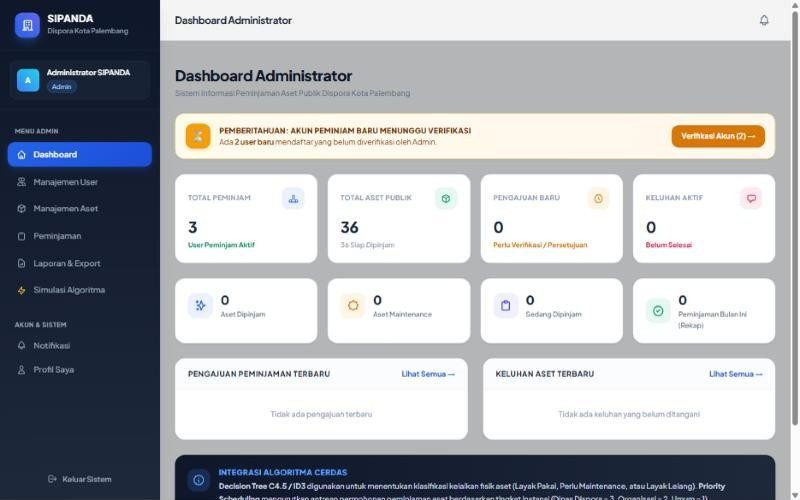
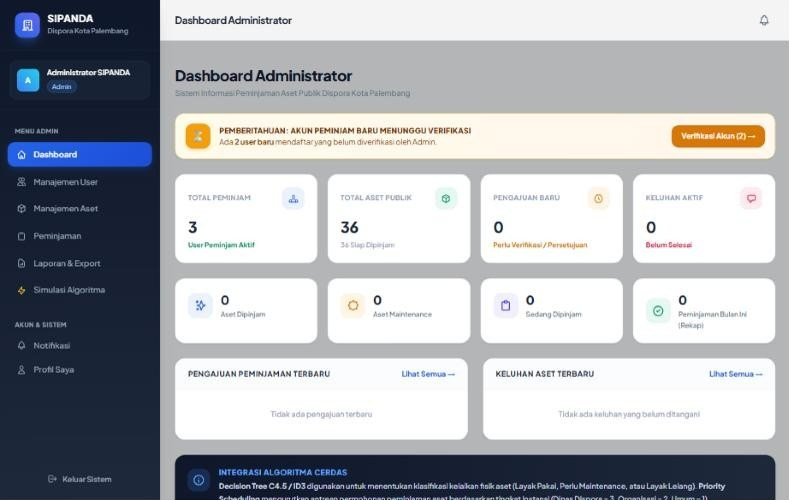
Gambar berwarna, bingkai HP realistis, level skill bahasa Inggris
- Hapus filter hitam-putih di galeri, mockup, dan sertifikat
- Bingkai HP baru: bezel + rangka, status bar ikut warna aplikasi, dynamic island
- Potong scrollbar yang ikut terfoto di screenshot Crypto, StokKu, SIPANDA
- Label level skill: Advanced / Upper Intermediate / Intermediate / Basic

diff --git a/index.html b/index.html
@@ -64,8 +64,8 @@ img{display:block;max-width:100%}
 .gallery{display:grid;grid-template-columns:repeat(3,1fr);gap:28px 22px;margin-top:40px;position:relative;z-index:2}
 .tile{display:block}
 .tile .frame{border:3px solid var(--line);border-radius:10px;overflow:hidden;aspect-ratio:16/10;background:#111}
-.tile img{width:100%;height:100%;object-fit:cover;object-position:top;filter:grayscale(1) contrast(1.1);transition:filter .4s,transform .6s}
-.tile:hover img{filter:none;transform:scale(1.04)}
+.tile img{width:100%;height:100%;object-fit:cover;object-position:top;transition:transform .6s}
+.tile:hover img{transform:scale(1.04)}
 .tile .cap{display:flex;justify-content:space-between;align-items:baseline;gap:10px;margin-top:12px;font-size:.85rem;color:var(--muted)}
 .tile .cap b{font-weight:800;text-transform:uppercase;font-size:1.05rem;letter-spacing:.02em;color:var(--fg)}
 .tile.more .frame{display:grid;place-items:center;text-align:center;background:#0d0d0d;transition:background .3s}
@@ -78,18 +78,21 @@ img{display:block;max-width:100%}
 /* konten naik menimpa bagian bawah teks raksasa yang sudah memudar */
 .proj-row{display:grid;grid-template-columns:1fr 1fr;gap:4vw;align-items:center;position:relative;z-index:2;margin-top:clamp(40px,11vw,170px)}
 .slide.flip .proj-row .stage{order:2}
-/* mockup laptop + HP (monokrom, berwarna saat di-hover) */
+/* mockup laptop + HP */
 .stage{position:relative;display:block;padding-bottom:28px}
-.stage img{filter:grayscale(1) contrast(1.1);transition:filter .4s}
-.stage:hover img{filter:none}
 .laptop{width:88%}
 .slide.flip .laptop{margin-left:auto}
 .laptop .screen{background:#141414;border:2px solid #3a3a3a;border-radius:14px 14px 0 0;padding:10px;box-shadow:0 30px 60px -25px rgba(255,255,255,.08)}
 .laptop .screen img{width:100%;aspect-ratio:16/10;object-fit:cover;object-position:top;border-radius:3px}
 .laptop .base{height:14px;background:linear-gradient(#cfcfcf,#7d7d7d);border-radius:0 0 14px 14px;margin:0 -6%;position:relative}
 .laptop .base::after{content:"";position:absolute;left:42%;right:42%;top:0;height:5px;background:#666;border-radius:0 0 6px 6px}
-.phone{position:absolute;right:0;bottom:0;width:24%;max-width:160px;background:#141414;border:2px solid #444;border-radius:24px;padding:6px;box-shadow:0 25px 40px -12px rgba(0,0,0,.8);transform:rotate(4deg)}
-.phone img{width:100%;aspect-ratio:9/18.5;object-fit:cover;object-position:top;border-radius:18px}
+/* bingkai HP: bezel + rangka metal, status bar (warna ikut aplikasi via --sb), dynamic island */
+.phone{position:absolute;right:0;bottom:0;width:24%;max-width:160px;padding:5px;border-radius:30px;
+  background:linear-gradient(150deg,#262626,#050505 60%);
+  box-shadow:0 0 0 1.5px #6b6b6b,0 0 0 3px #161616,inset 0 0 0 1px #000,0 30px 50px -15px rgba(0,0,0,.9);transform:rotate(4deg)}
+.phone img{display:block;width:100%;aspect-ratio:9/19;object-fit:cover;object-position:top;border-radius:25px;border-top:18px solid var(--sb,#fff);background:var(--sb,#fff)}
+.phone::before{content:"";position:absolute;z-index:2;top:9px;left:50%;width:30%;height:10px;transform:translateX(-50%);border-radius:10px;background:#000}
+.phone::after{content:"9:41";position:absolute;z-index:2;top:8px;left:15%;font:600 7px/12px Poppins,system-ui,sans-serif;color:var(--sbt,#111)}
 .slide.flip .phone{right:auto;left:0;transform:rotate(-4deg)}
 .num{font-weight:300;font-size:.95rem;color:var(--muted);letter-spacing:.2em}
 .proj-info h3{font-weight:800;text-transform:uppercase;font-size:clamp(2.2rem,5vw,4.4rem);line-height:.95;margin:6px 0 4px}
@@ -109,8 +112,8 @@ img{display:block;max-width:100%}
 .certs{display:flex;flex-wrap:wrap;justify-content:center;gap:30px 22px;margin-top:40px;position:relative;z-index:2}
 .cert{flex:0 1 calc(25% - 17px);display:block}
 .cert .frame{border:3px solid var(--line);border-radius:10px;overflow:hidden;aspect-ratio:10/7;background:#111}
-.cert img{width:100%;height:100%;object-fit:cover;object-position:top;filter:grayscale(1) contrast(1.05);transition:filter .4s,transform .6s}
-.cert:hover img{filter:none;transform:scale(1.04)}
+.cert img{width:100%;height:100%;object-fit:cover;object-position:top;transition:transform .6s}
+.cert:hover img{transform:scale(1.04)}
 .cert b{display:block;font-weight:700;font-size:.95rem;line-height:1.3;margin-top:12px;color:var(--fg)}
 .cert span{display:block;font-size:.8rem;color:var(--muted);margin-top:3px}
 .cert em{display:inline-block;font-style:normal;font-size:.72rem;font-weight:600;margin-top:6px;padding:2px 10px;border-radius:999px;background:var(--fg);color:#000}
@@ -290,7 +293,7 @@ body:hover .glow{opacity:1}
   <div class="proj-row">
     <a class="stage" href="https://istu2174.github.io/duitku-web-treking-keuangan-pribadi/" target="_blank" rel="noopener">
       <div class="laptop"><div class="screen"><img src="img/duitku-desktop.jpg" alt="Duitku di laptop" loading="lazy"></div><div class="base"></div></div>
-      <div class="phone"><img src="img/duitku-hp.jpg" alt="Duitku di HP" loading="lazy"></div>
+      <div class="phone" style="--sb:#fef9f3"><img src="img/duitku-hp.jpg" alt="Duitku di HP" loading="lazy"></div>
     </a>
     <div class="proj-info">
       <h3>Duitku<span class="badge">LIVE</span></h3>
@@ -315,7 +318,7 @@ body:hover .glow{opacity:1}
   <div class="proj-row">
     <a class="stage" href="https://istu2174.github.io/blok-blas/" target="_blank" rel="noopener">
       <div class="laptop"><div class="screen"><img src="img/blokblas-desktop.jpg" alt="Blok Blas di laptop" loading="lazy"></div><div class="base"></div></div>
-      <div class="phone"><img src="img/blokblas-hp.jpg" alt="Blok Blas di HP" loading="lazy"></div>
+      <div class="phone" style="--sb:#5a7fa2;--sbt:#fff"><img src="img/blokblas-hp.jpg" alt="Blok Blas di HP" loading="lazy"></div>
     </a>
     <div class="proj-info">
       <h3>Blok Blas<span class="badge">LIVE</span></h3>
@@ -340,7 +343,7 @@ body:hover .glow{opacity:1}
   <div class="proj-row">
     <a class="stage" href="https://github.com/istu2174/PinjamPakaiAset" target="_blank" rel="noopener">
       <div class="laptop"><div class="screen"><img src="img/sipanda-desktop.jpg" alt="Dashboard SIPANDA di laptop" loading="lazy"></div><div class="base"></div></div>
-      <div class="phone"><img src="img/sipanda-hp.jpg" alt="SIPANDA di HP" loading="lazy"></div>
+      <div class="phone" style="--sb:#f4f4f4"><img src="img/sipanda-hp.jpg" alt="SIPANDA di HP" loading="lazy"></div>
     </a>
     <div class="proj-info">
       <h3>SIPANDA</h3>
@@ -392,31 +395,31 @@ body:hover .glow{opacity:1}
     <div>
       <h3>Microsoft Office</h3>
       <ul>
-        <li>Microsoft Word <em>Mahir</em></li>
-        <li>Microsoft Excel <em>Mahir</em></li>
-        <li>Microsoft PowerPoint <em>Mahir</em></li>
-        <li>Google Workspace <em>Mahir</em></li>
+        <li>Microsoft Word <em>Advanced</em></li>
+        <li>Microsoft Excel <em>Advanced</em></li>
+        <li>Microsoft PowerPoint <em>Advanced</em></li>
+        <li>Google Workspace <em>Advanced</em></li>
       </ul>
       <p style="font-size:.8rem;color:var(--muted);margin-top:10px">Tersertifikasi Desktop Office Training — nilai Word 100, PowerPoint 100, Excel 95 (A).</p>
     </div>
     <div>
       <h3>Web Development</h3>
       <ul>
-        <li>HTML, CSS, JavaScript <em>Mahir</em></li>
-        <li>React · Vite · Tailwind <em>Menengah+</em></li>
-        <li>Node.js · Express <em>Menengah+</em></li>
-        <li>PHP · Laravel <em>Menengah</em></li>
-        <li>Python <em>Dasar</em></li>
+        <li>HTML, CSS, JavaScript <em>Advanced</em></li>
+        <li>React · Vite · Tailwind <em>Upper Intermediate</em></li>
+        <li>Node.js · Express <em>Upper Intermediate</em></li>
+        <li>PHP · Laravel <em>Intermediate</em></li>
+        <li>Python <em>Basic</em></li>
       </ul>
     </div>
     <div>
       <h3>Database & Tools</h3>
       <ul>
-        <li>MySQL · PostgreSQL · SQLite <em>Menengah</em></li>
-        <li>Prisma · Supabase <em>Menengah</em></li>
-        <li>Git & GitHub <em>Menengah+</em></li>
-        <li>GitHub Pages · Render · Vercel <em>Menengah</em></li>
-        <li>VS Code · XAMPP · Postman <em>Mahir</em></li>
+        <li>MySQL · PostgreSQL · SQLite <em>Intermediate</em></li>
+        <li>Prisma · Supabase <em>Intermediate</em></li>
+        <li>Git & GitHub <em>Upper Intermediate</em></li>
+        <li>GitHub Pages · Render · Vercel <em>Intermediate</em></li>
+        <li>VS Code · XAMPP · Postman <em>Advanced</em></li>
       </ul>
     </div>
     <div>
@@ -427,7 +430,7 @@ body:hover .glow{opacity:1}
         <li>Manajemen waktu</li>
         <li>Dokumentasi teknis</li>
         <li>Bahasa Indonesia <em>Native</em></li>
-        <li>Bahasa Inggris <em>Pasif</em></li>
+        <li>Bahasa Inggris <em>Passive</em></li>
       </ul>
     </div>
   </div>
